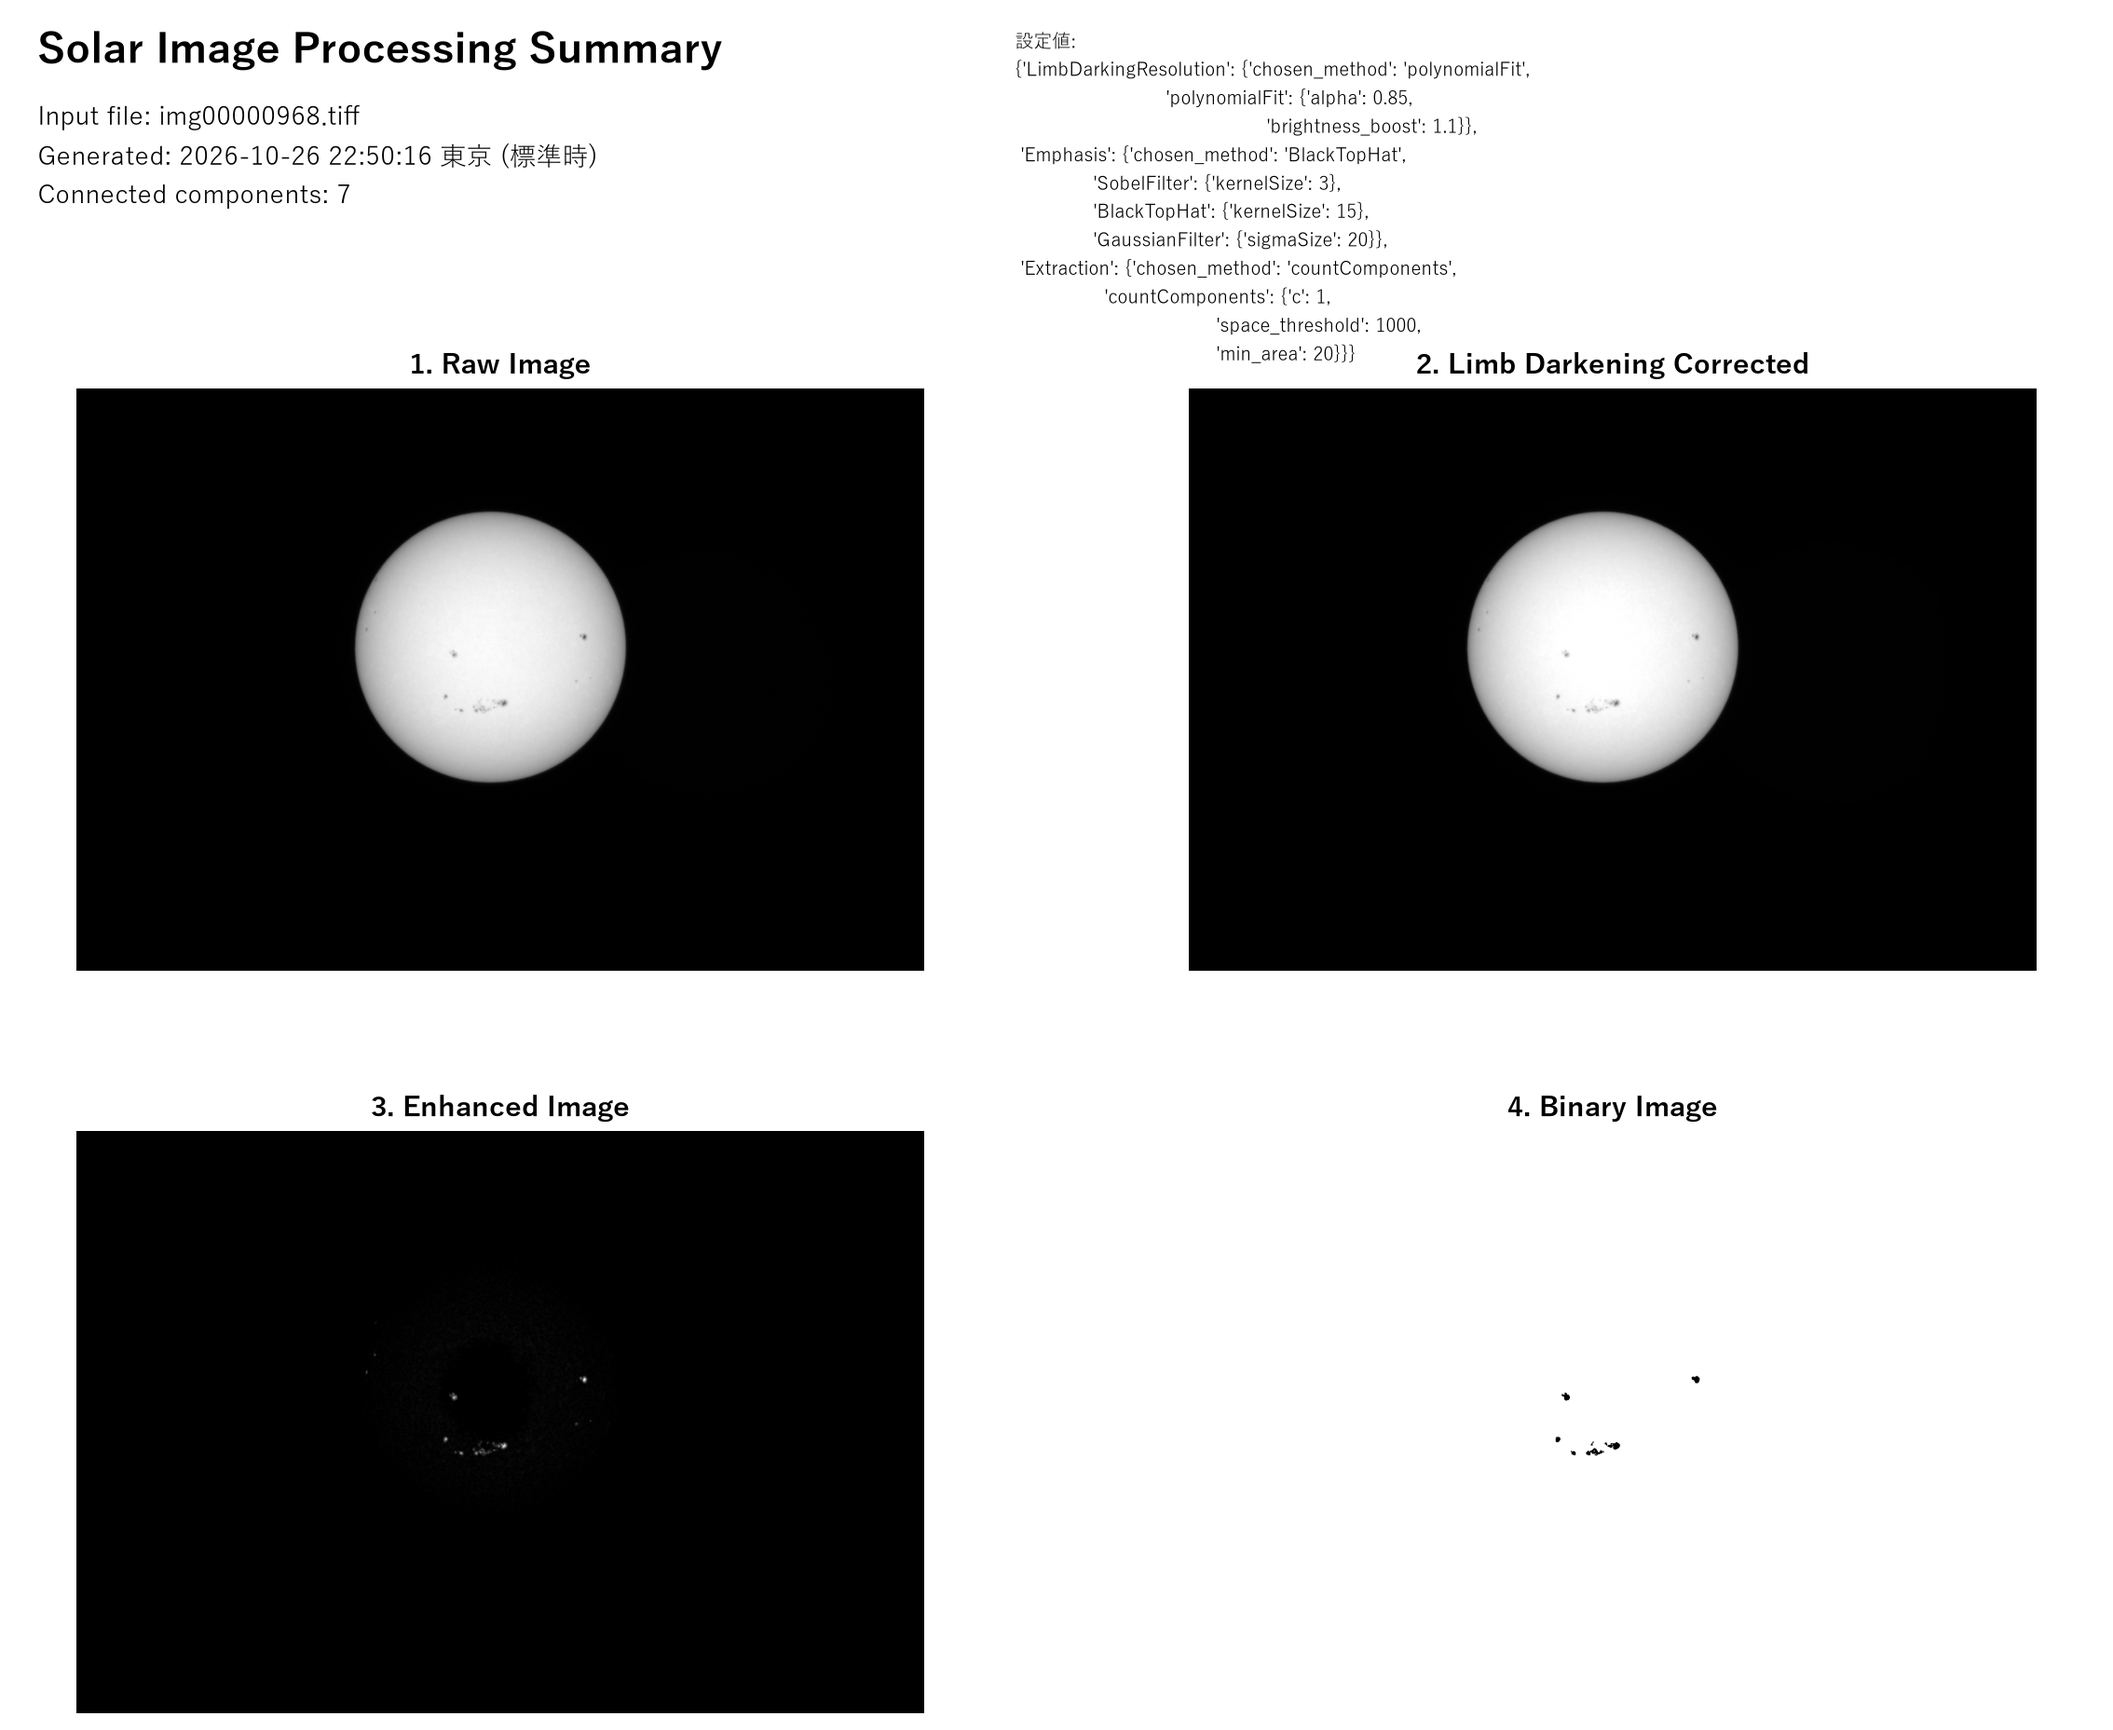
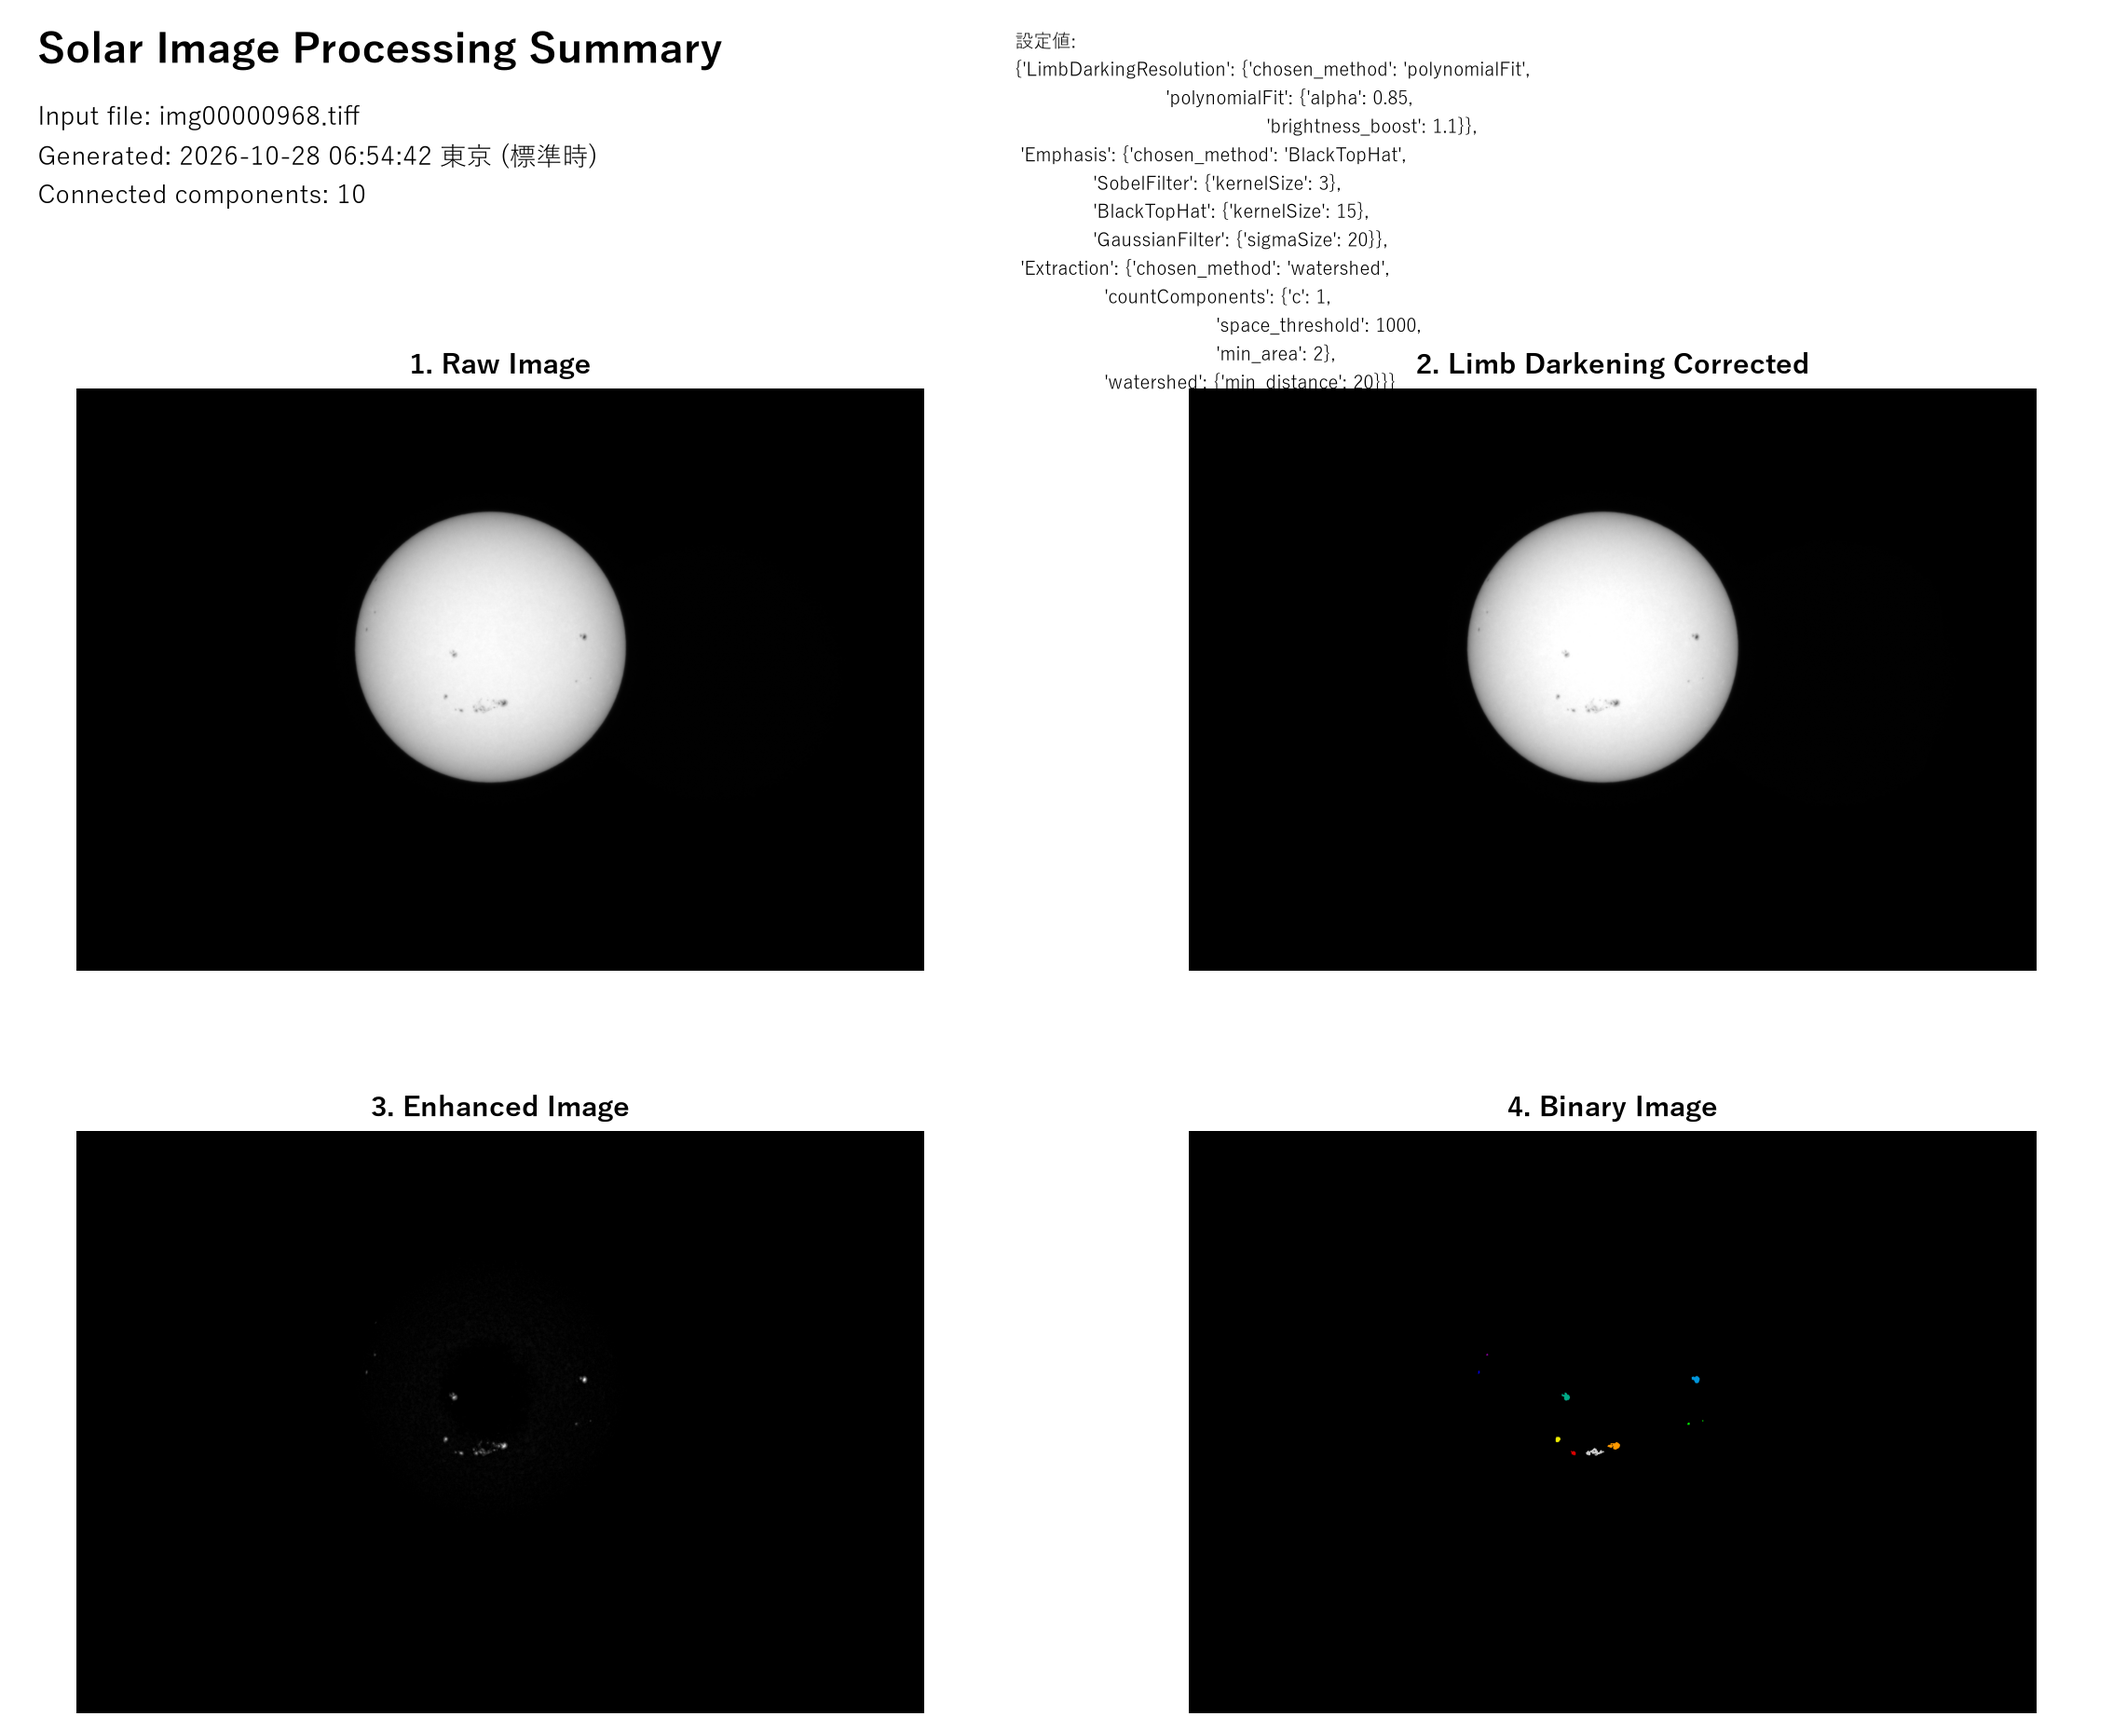
watershedを実装

Changed region(s): [[0.5556, 0.6559, 0.9877, 0.9995]]

diff --git a/src/package/watershed.py b/src/package/watershed.py
@@ -1,0 +1,94 @@
+
+"""二値化済みの太陽画像にWatershedを適用するモジュール。"""
+
+import numpy as np
+from scipy import ndimage
+from skimage.segmentation import watershed
+import matplotlib.pyplot as plt
+from skimage.feature import peak_local_max
+
+def watershedCount(
+    binary_image: np.ndarray,
+    min_area: int = 5,
+    min_distance: int = 5,
+) -> tuple[int, np.ndarray]:
+    """Watershedで黒点候補を分割し、個数を数える。
+
+    Args:
+        binary_image: 黒点候補が0、背景が255の二値画像。
+        min_area: 残す領域の最小画素数。デフォルトは5。
+        min_distance: watershedで分割される黒点どうしの最小の距離。
+
+    Return
+    -------
+        黒点ごとに色分けされた画像。各画素が RGB の3値を持つため、(高さ, 幅, 3) の形状を持ちます。
+    """
+    # 黒点候補をTrue、背景をFalseにする
+    sunspot_mask = binary_image == 0
+
+    # 黒点候補が存在しない場合
+    if not np.any(sunspot_mask):
+        return 0, np.full(binary_image.shape, 255, dtype=np.uint8)
+
+    # 距離変換：各画素から背景までの距離を求める
+    distance_result = ndimage.distance_transform_edt(sunspot_mask)
+    distance = np.asarray(distance_result, dtype=np.float64)
+
+    # 距離画像の局所最大値を検出し、マーカー同士の間隔を確保
+    coordinates = peak_local_max(
+        distance,
+        min_distance=min_distance,
+        labels=sunspot_mask.astype(np.uint8),
+        exclude_border=False,
+    )
+
+    # 検出した座標をマーカー画像に変換
+    local_max = np.zeros(sunspot_mask.shape, dtype=bool)
+    local_max[tuple(coordinates.T)] = True # pyright: ignore
+
+
+    # 局所最大値にラベルを付ける
+    markers, marker_count = ndimage.label(local_max) # pyright: ignore[reportGeneralTypeIssues]
+
+    # マーカーが存在しない場合は元の連結領域を返す
+    if marker_count == 0:
+        labels, _ = ndimage.label(sunspot_mask) # pyright: ignore[reportGeneralTypeIssues]
+    else:
+        # 距離画像の高い部分から領域を分割
+        watershed_image = -distance
+        labels = watershed(
+            watershed_image,
+            markers=markers,
+            mask=sunspot_mask,
+        )
+
+    # 各領域の画素数を数える
+    labels = np.asarray(labels, dtype=np.intp)
+    component_sizes = np.bincount(labels.ravel())
+
+    # 最小面積以上の領域だけ残す
+    keep_mask = component_sizes >= min_area
+    keep_mask[0] = False
+
+    filtered_mask = keep_mask[labels]
+
+    # 小さな領域を除外したラベル画像を作成
+    colored_labels = np.where(filtered_mask, labels, 0)
+
+    # ラベル画像をカラフルなRGB画像に変換
+    normalized_labels = colored_labels.astype(np.float64)
+    max_label = int(normalized_labels.max())
+
+    if max_label > 0:
+        normalized_labels /= max_label
+
+    result_image = (plt.get_cmap("nipy_spectral")(normalized_labels)[..., :3] * 255).astype(np.uint8)
+
+    count = int(np.count_nonzero(keep_mask))
+
+    # ラベル0は除外済みなので、そのまま数える
+    count = int(np.count_nonzero(keep_mask))
+    print("Watershedのマーカー数:", marker_count)
+    print("Watershed後の領域数:", len(np.unique(labels)) - 1)
+
+    return count, result_image

diff --git a/src/main.py b/src/main.py
@@ -22,7 +22,7 @@ import matplotlib.pyplot as plt
 from numpy import dtype, ndarray
 from numpy._typing._shape import _AnyShape
 
-from src.package import black_top_hat, connection_count, gaussian_filter, sobel_filter, utils
+from src.package import black_top_hat, connection_count, gaussian_filter, sobel_filter, watershed, utils
 from src.package import config as configMOD
 from src.package import limb_darking_resolution as ldr
 
@@ -127,6 +127,19 @@ def main(config: dict) -> int:
                 image,  # pyright: ignore[reportArgumentType]
                 **extractionConfig["countComponents"]
             )
+        elif extractionMethod == "watershed":
+            imgName = f"watershed_c{extractionConfig['countComponents']['c']}_threshold{extractionConfig['countComponents']['space_threshold']}_minArea{extractionConfig['countComponents']['min_area']}_minDistance{extractionConfig['watershed']['min_distance']}.png"
+
+            count, image = connection_count.countConnectedComponents(
+                image,  # pyright: ignore[reportArgumentType]
+                **extractionConfig["countComponents"]
+            )
+
+            count, image = watershed.watershedCount(
+                image,
+                extractionConfig["countComponents"]["min_area"],
+                extractionConfig["watershed"]["min_distance"]
+			)
         else:
             raise ValueError(f"Unknown extraction method: {extractionMethod}")
     except Exception as e:
